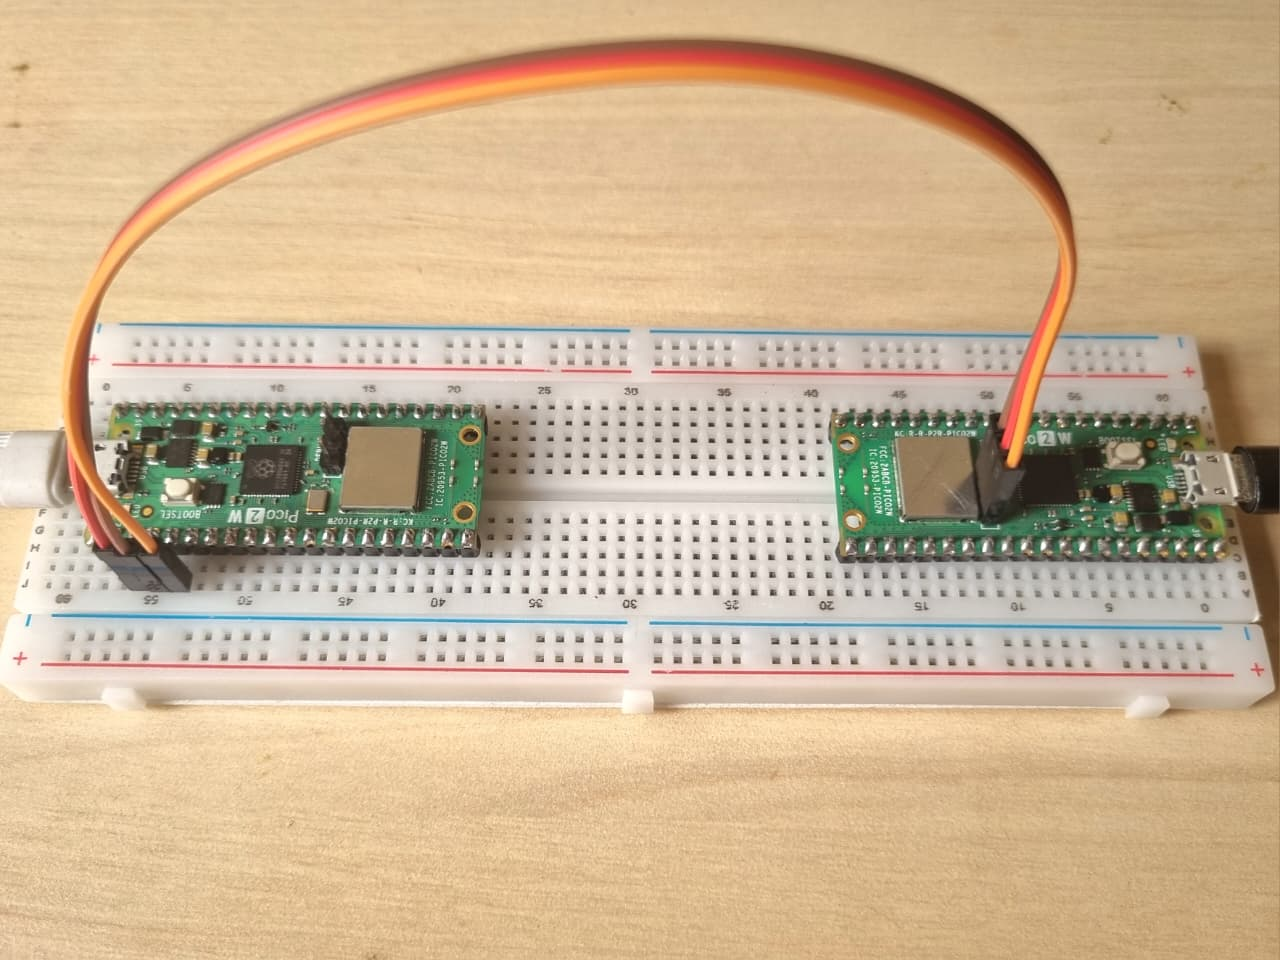
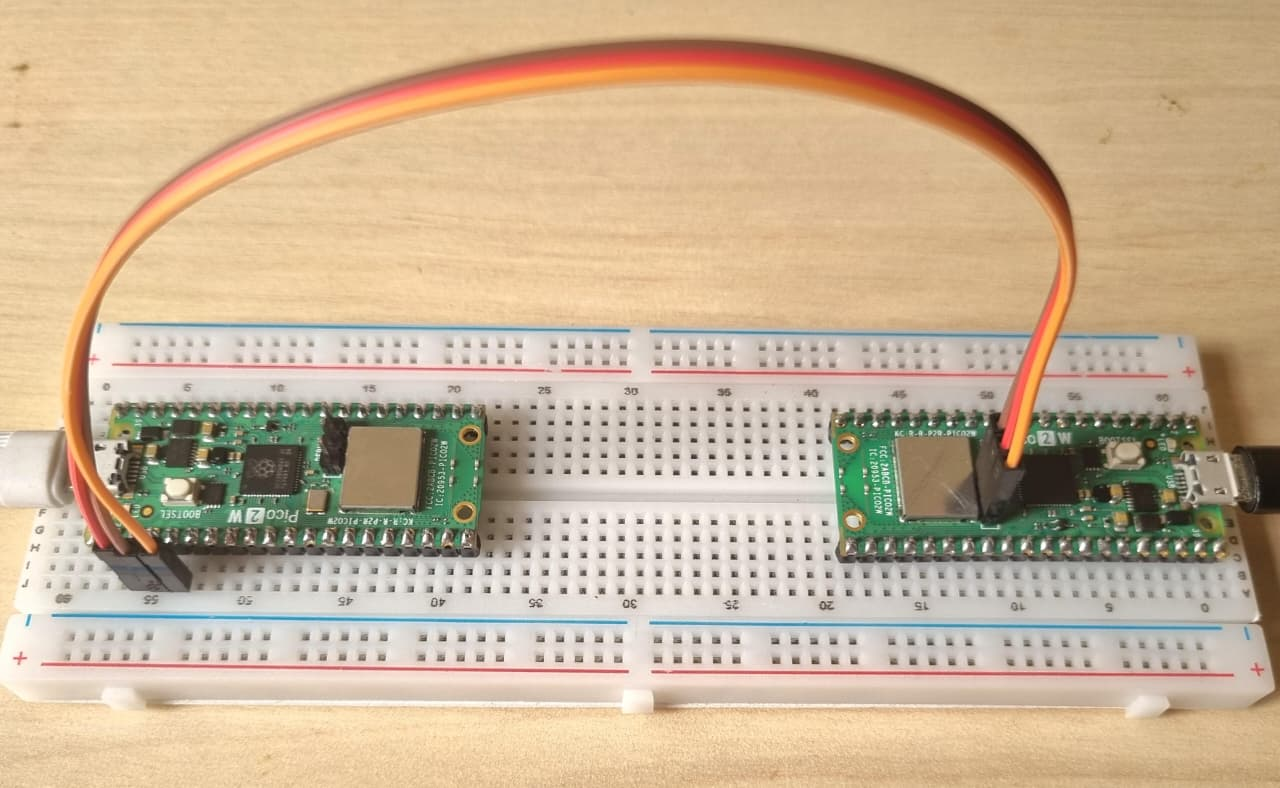
link added

diff --git a/README.md b/README.md
@@ -20,7 +20,7 @@ One board acts as the **debug probe**, while the second board is the **target de
 
 You can download the compiled debug probe firmware here:
 
-LINK_AQUI
+https://github.com/raspberrypi/debugprobe/releases
 
 Flash the firmware into the Pico that will act as the **debug probe**.
 
